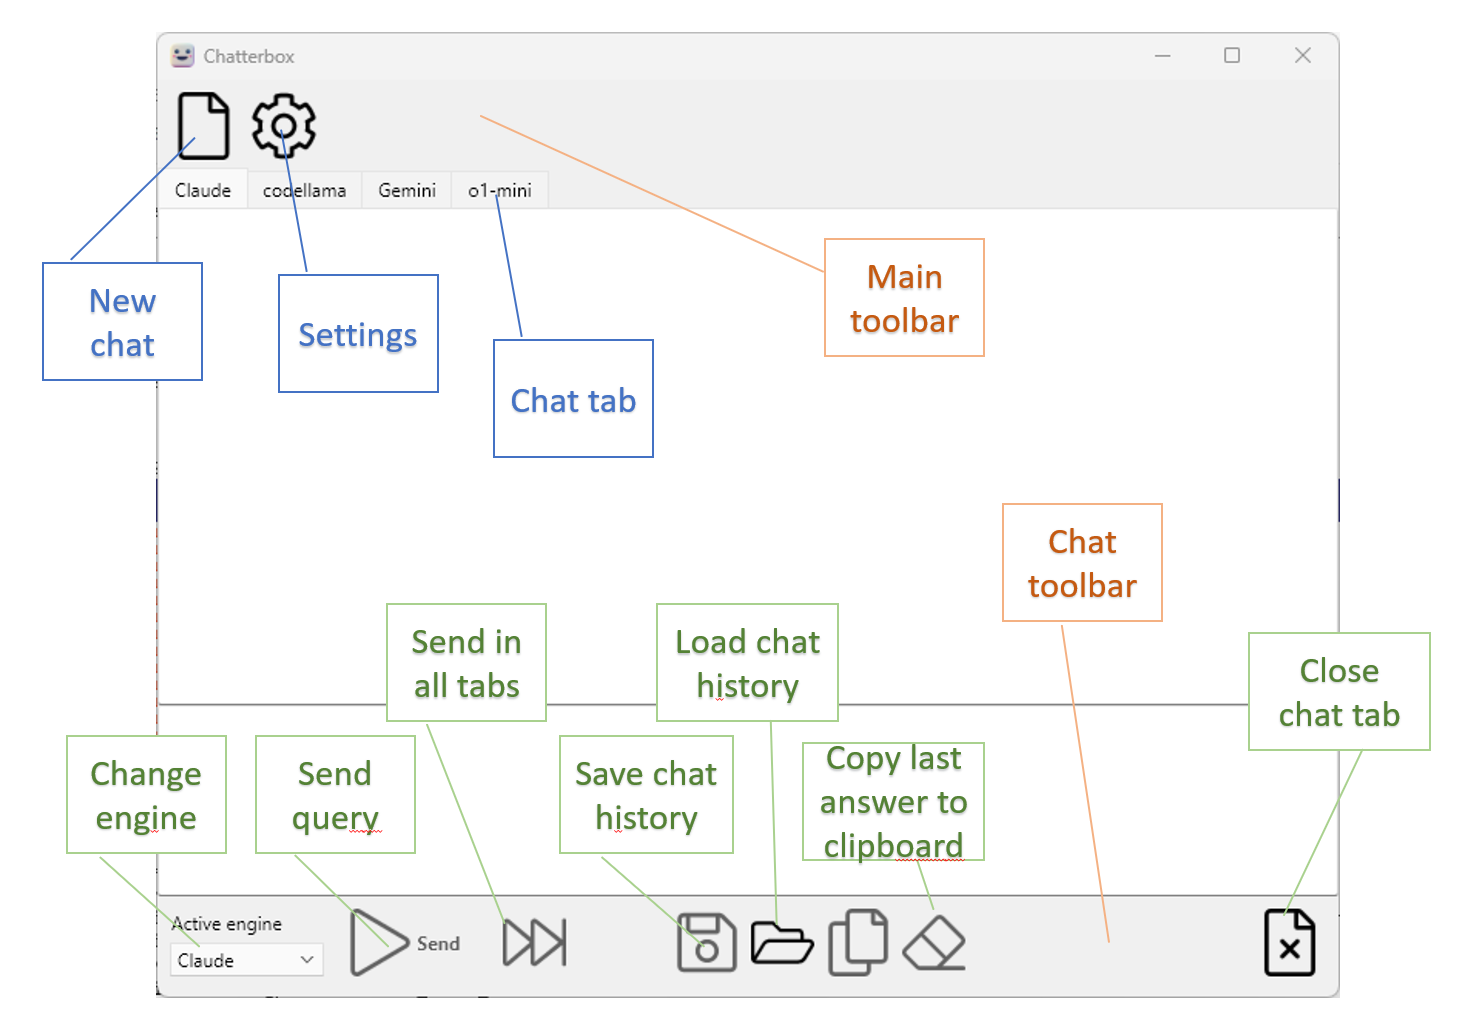
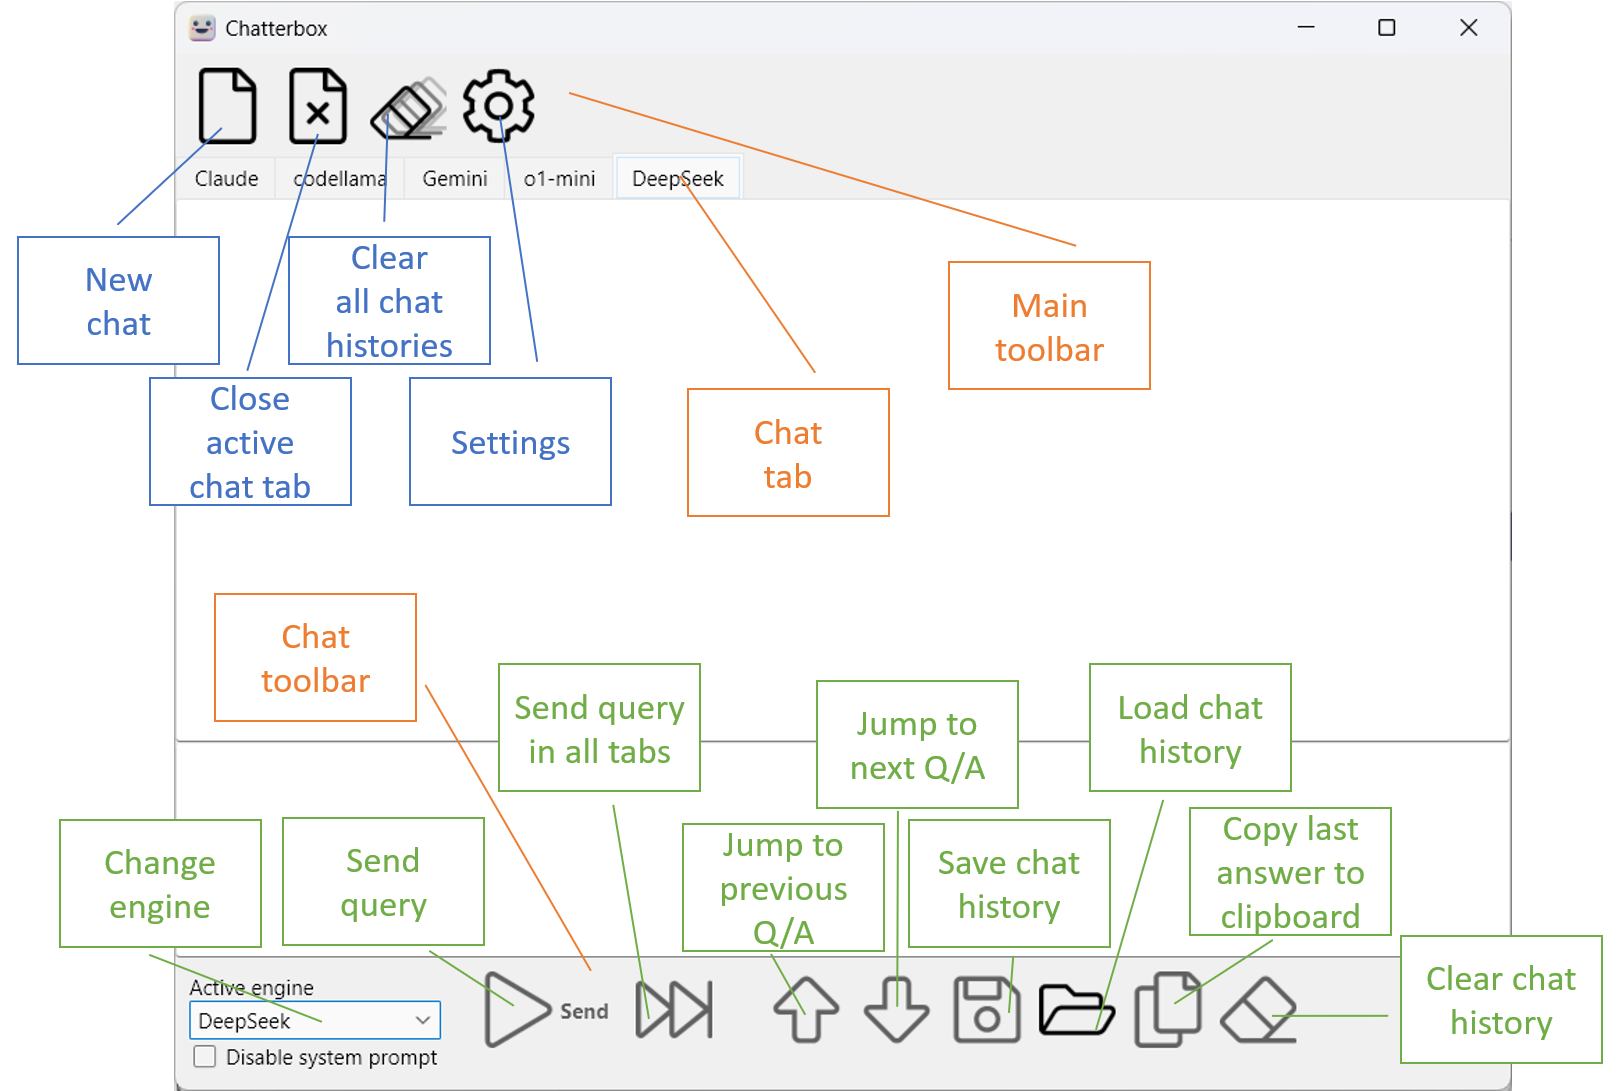
doc update for version 0.2

diff --git a/README.md b/README.md
@@ -8,6 +8,7 @@ Chatterbox is an open-source application designed to enable users to run multipl
   - Ollama
   - OpenAI
   - Google (Gemini)
+  - DeepSeek
 - Easy-to-use interface for managing multiple chats simultaneously.
 - Written in Delphi using powerful open-source libraries:
   - [Spring4D](https://bitbucket.org/sglienke/spring4d/src)
